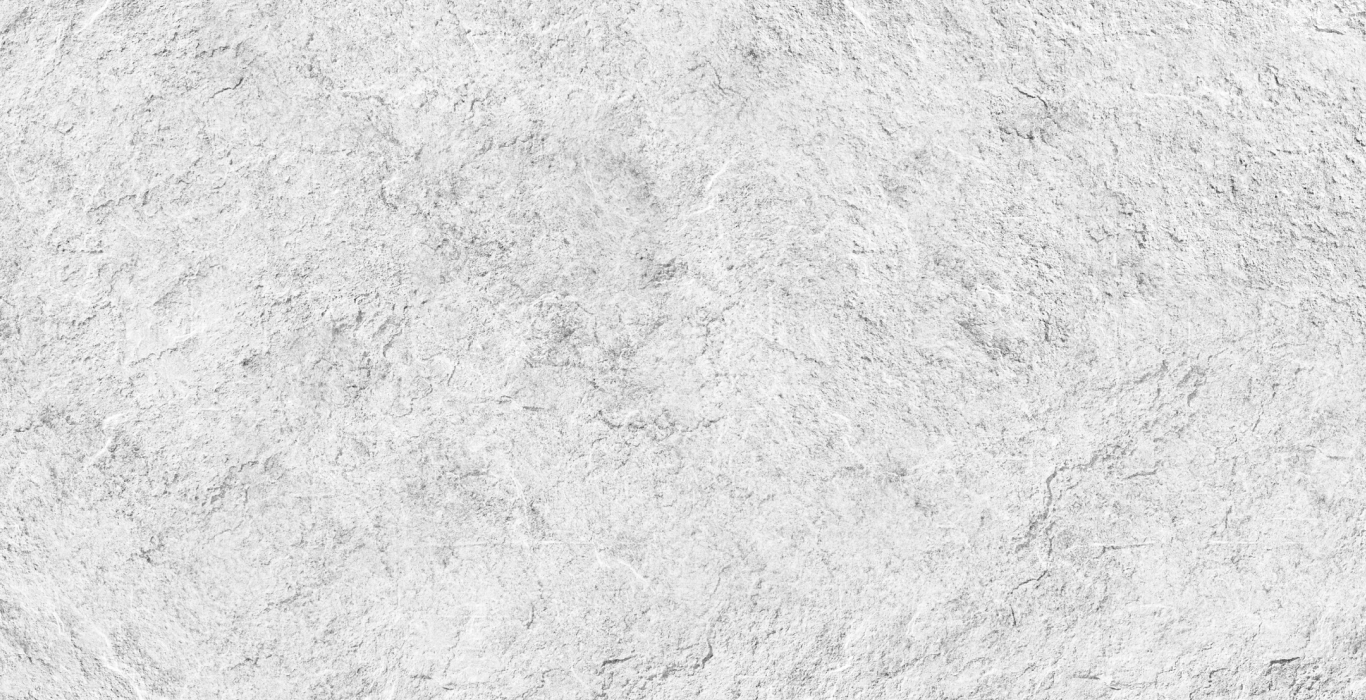
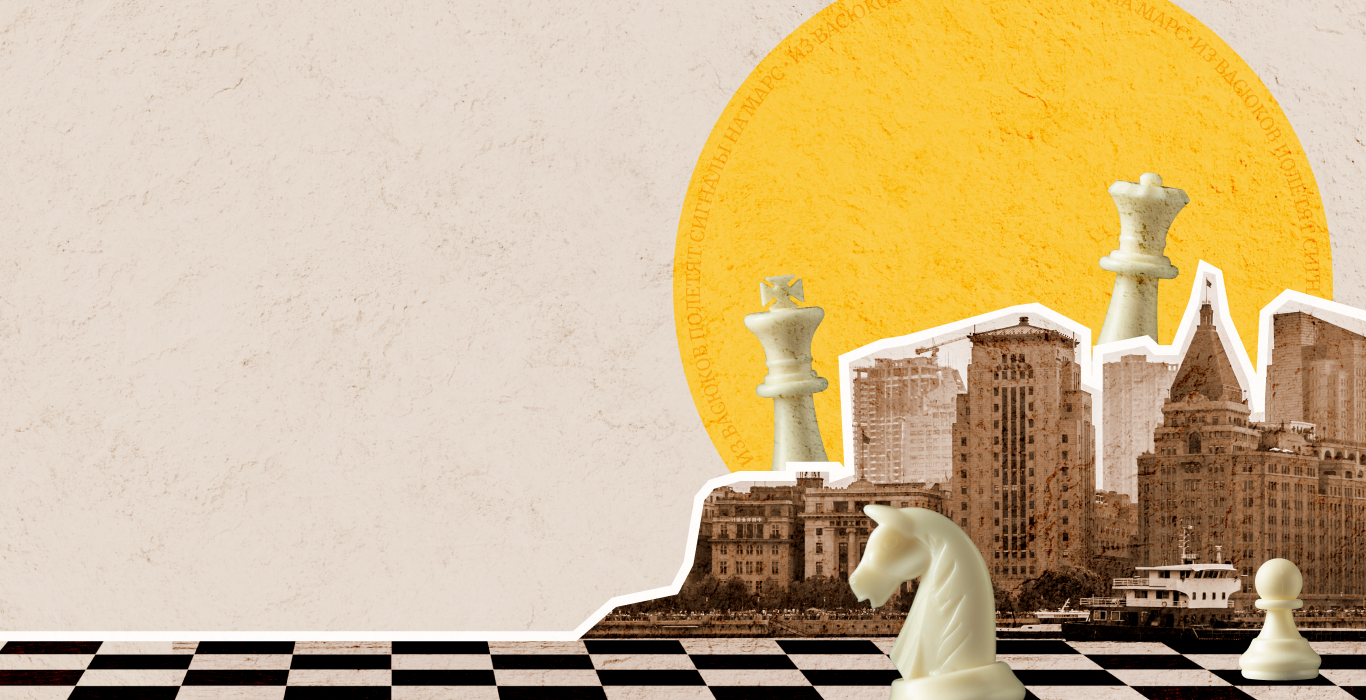
правильно переименовал фон для background for heroSection

diff --git a/app/scss/components/_heroSection.scss b/app/scss/components/_heroSection.scss
@@ -2,17 +2,17 @@
 @use '../global';
 
 .heroSection {
-    background-image: url('../../images/heroSection/main.png');
+    background-image: url('../../images/heroSection/background.png');
     @extend %bg-img;
     background-position: 0;
 
 
     @media (min-width: 1620px){
-        background-image: url('../../images/heroSection/1920.jpg');
+        background-image: url('../../images/heroSection/background_1920.jpg');
     }
 
     @media (max-width:global.$mobile){
-       background-image: url('../../images/heroSection/375.jpg');
+       background-image: url('../../images/heroSection/background_375.jpg');
        background-position-y: 0;
    }
 